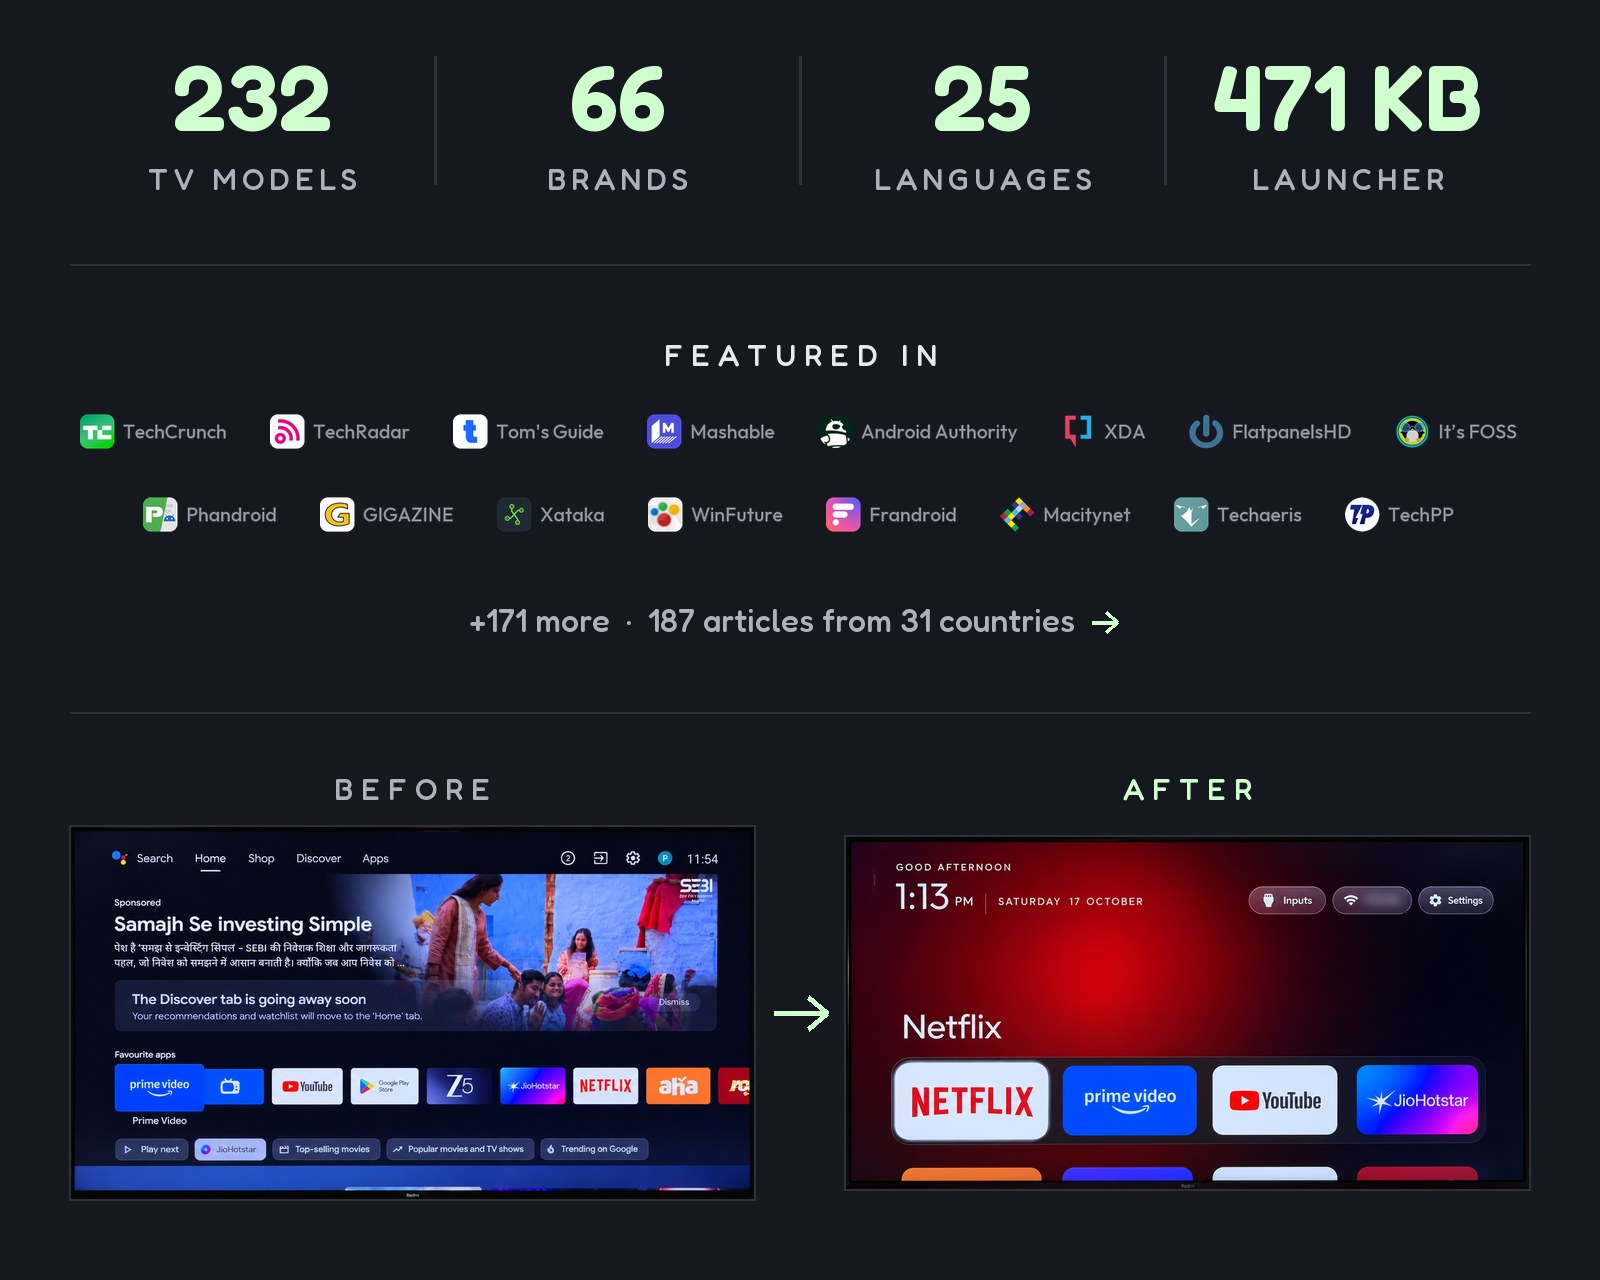
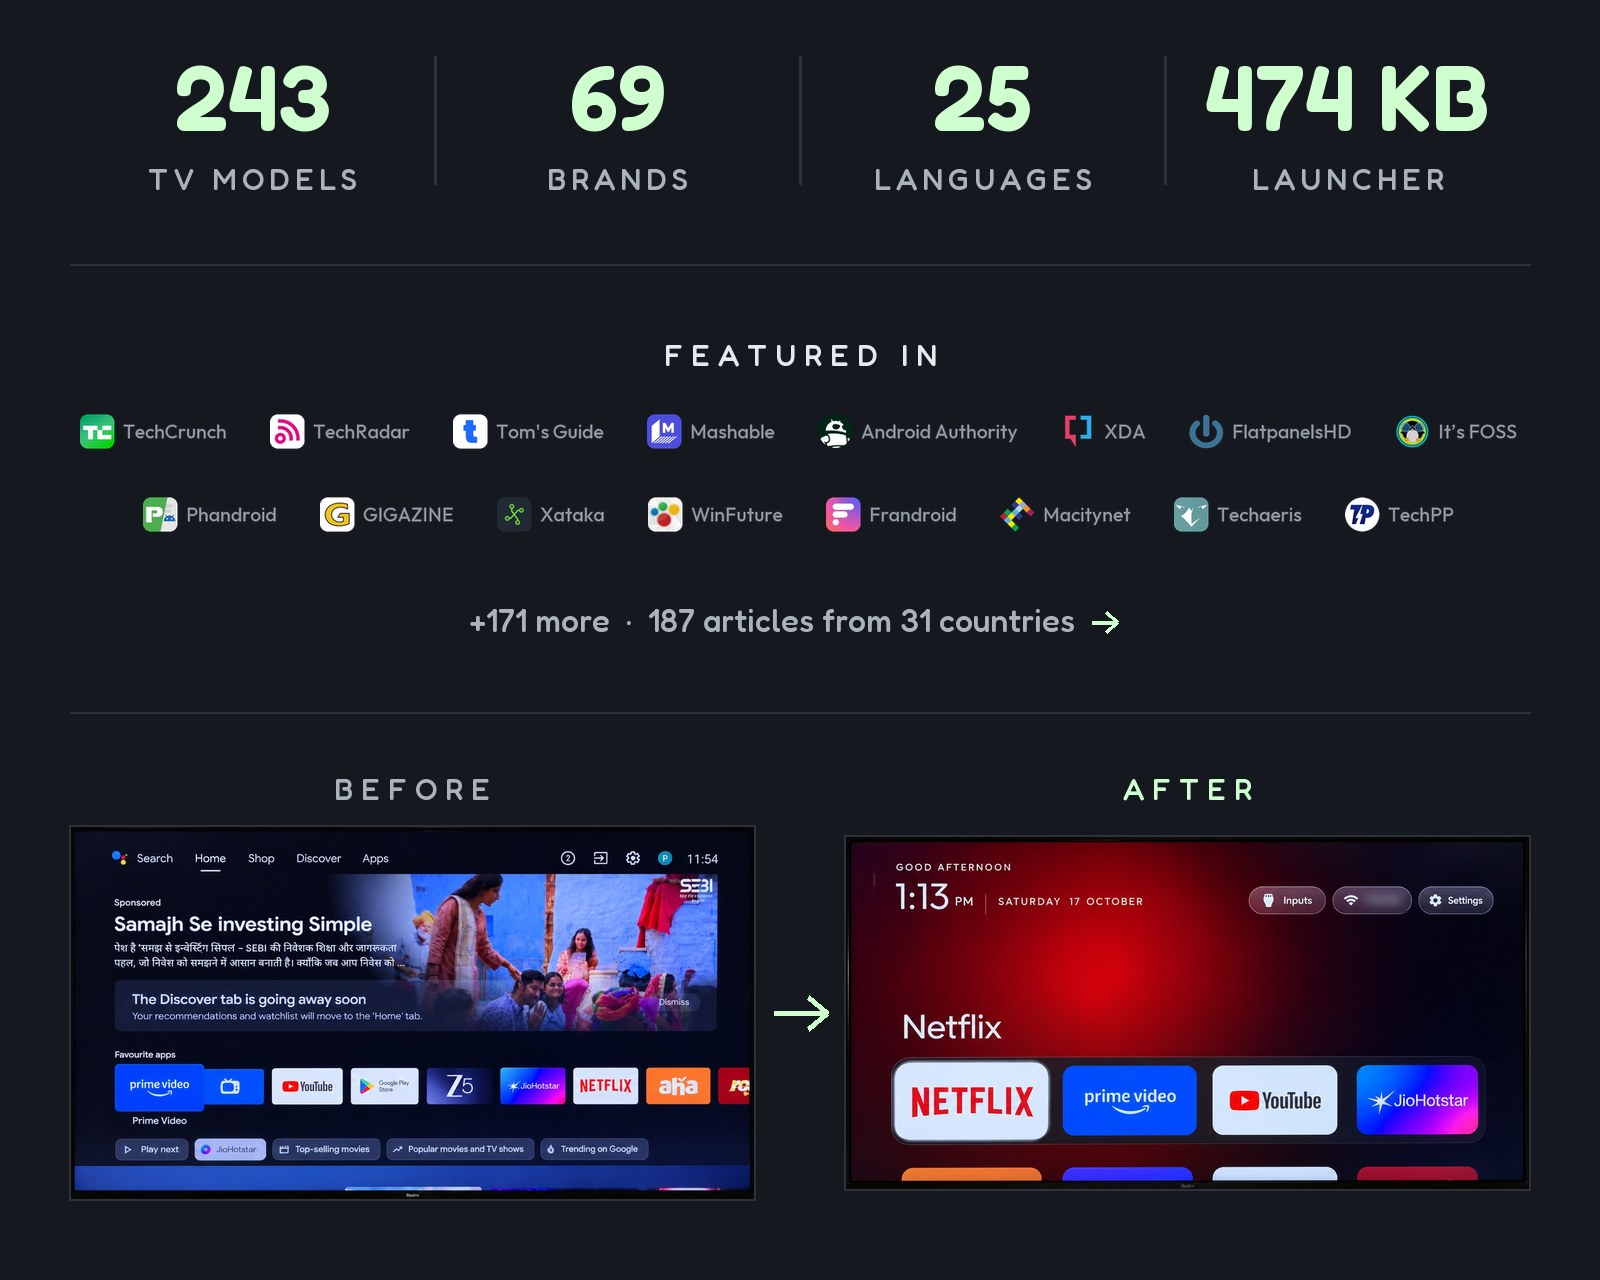
README: counts and card after Round R (243 TV models, 69 brands, 474 KB launcher)
New brands: Lumio, RockTek, TiVo. examples/README.md and README.md: one tcl-65c735 row each (the table merges had left the pre-#996 row next to the updated one).

Changed region(s): [[0.75, 0.0312, 0.9375, 0.125], [0.125, 0.0312, 0.2188, 0.125], [0.375, 0.0625, 0.4375, 0.0938]]

diff --git a/tools/readme_stats.py b/tools/readme_stats.py
@@ -5,7 +5,7 @@ and rebuild the card with tools/readme_card.py. Fredoka is the variable TTF from
 import sys
 from PIL import Image, ImageDraw, ImageFont
 FONT, OUT = sys.argv[1], sys.argv[2]
-STATS = [("232", "TV MODELS"), ("66", "BRANDS"), ("25", "LANGUAGES"), ("471 KB", "LAUNCHER")]
+STATS = [("243", "TV MODELS"), ("69", "BRANDS"), ("25", "LANGUAGES"), ("474 KB", "LAUNCHER")]
 W, H = 1600, 240
 img = Image.new("RGB", (W, H), "#15181e"); d = ImageDraw.Draw(img)
 def f(size, wt):

diff --git a/examples/README.md b/examples/README.md
@@ -177,7 +177,6 @@ on that firmware, grouped and commented. These are starting points: comment out 
 | `tcl-58s571f-fire-tv/` | TCL 58S571F (TCL Fire TV, AFTDEC012E, ginza, MediaTek mt5896), US | Fire OS 8 / Android 11 | The S5 sibling of `tcl-43s450f-ca/` (same AFTDEC012E platform as `amazon-fire-tv-aftdec012e/`): Amazon ACR, ad/recommendation feeders, advertising ID, Shopping, demo, tutorials, telemetry, KSO service; Alexa extras, preloads and TCL apps (OpApp, Luna, Kids, News, Gallery, System Status, Prime Video) off by choice; Alexa voice returns at every boot as on the Hisense; the stock launcher also owns Settings; Appstore kept for the remote's branded buttons; AirPlay, Miracast, Live TV, Silk kept; debloat only |
 | `tcl-65c725/` | TCL 65C725 (Smart TV Pro, BeyondTV4) | Android TV 11 | TCL analytics/promos, Google recommendation rows; voice off, OTA off by choice |
 | `tcl-65c735/` | TCL 65C735 (Smart TV Pro, G05, MediaTek), France; also TCL 55C728, Turkey, and TCL 65C935, France | Google TV 11 | TCL analytics, TGuard, promo dashboard and content feed, unused preloads; voice and AirPlay off by choice, Chromecast and Miracast kept; launcherx + setupwraith off (survived reboot); remote app buttons need launcherx (keycodes noted); USB port goes to gadget mode after a reboot with USB debugging on; on the 55C728 and 65C935 ttvs stays (it holds the system updater) and config.json maps the remote's buttons; the 65C935 notes a second setupwraith-owned SSID cleared with `cmd wifi forget-network`, Input 178, and HomeKeyService left unbound after a theme push |
-| `tcl-65c735/` | TCL 65C735 (Smart TV Pro, G05, MediaTek), France | Google TV 11 | TCL analytics, TGuard, promo dashboard and content feed, unused preloads; voice and AirPlay off by choice, Chromecast and Miracast kept; launcherx + setupwraith off (survived reboot); remote app buttons need launcherx (keycodes noted); USB port goes to gadget mode after a reboot with USB debugging on |
 | `tcl-65c7l-google-tv/` | TCL 65C7L (Smart TV Pro, G08, G08_4K_GB, MediaTek tcl9618), 2025, Australia | Google TV 14 | Same build as the C755 list (UTT2.250416.001 AU02); Samba TV ACR, TCL Live, promos, store/hotel demo, Alexa, Stan, T-Cast, soundbar updater; Chromecast, AirPlay, Miracast, Assistant, game bar and USB media kept; setupwraith owned the Wi-Fi network, re-join before disabling it; every remote button still worked with launcherx off; 27 packages survived a reboot |
 | `tcl-65c7k-google-tv/` | TCL 65C7K (Smart TV Pro, G08, G08_4K_GB, MediaTek mt5896), Brazil | Google TV 14 | Same build as the C755 list (UTT2.250416.001); Samba TV ACR, TCL Live, promos, store/hotel demo, Alexa, partner auto-installs; Assistant, USB media, Claro TV+, Mercado Play off by choice; Chromecast, AirPlay, game bar, soundbar updater and dreamx kept; keep `tv.mopa.ginga` for TV aberta; Wireless debugging needs Wi-Fi (pair, then `adb tcpip 5555`); setupwraith owned the Wi-Fi network, re-join before disabling it |
 | `tcl-65q650g/` | TCL 65Q650G (US Q6 2023, BeyondTV4, Realtek RTD2851 / R51MT08, V8-R51MT08-LF1V095, 2 GB) | Google TV launcher on Android TV 11 | TCL BI, promos, account/EULA, TCL TV+/Channel, TGuard, partner auto-installs; Tubi, Pluto, ESPN, Alexa off by choice; voice, Chromecast and firmware updater kept; launcherx + setupwraith off (Wi-Fi belonged to android.uid.system); BT remote's gear (scancode 233), Netflix, YouTube and Prime buttons remapped via app_keys/settings_key_scancodes, `APP_AUTO_START` allowed; reboot-checked |
